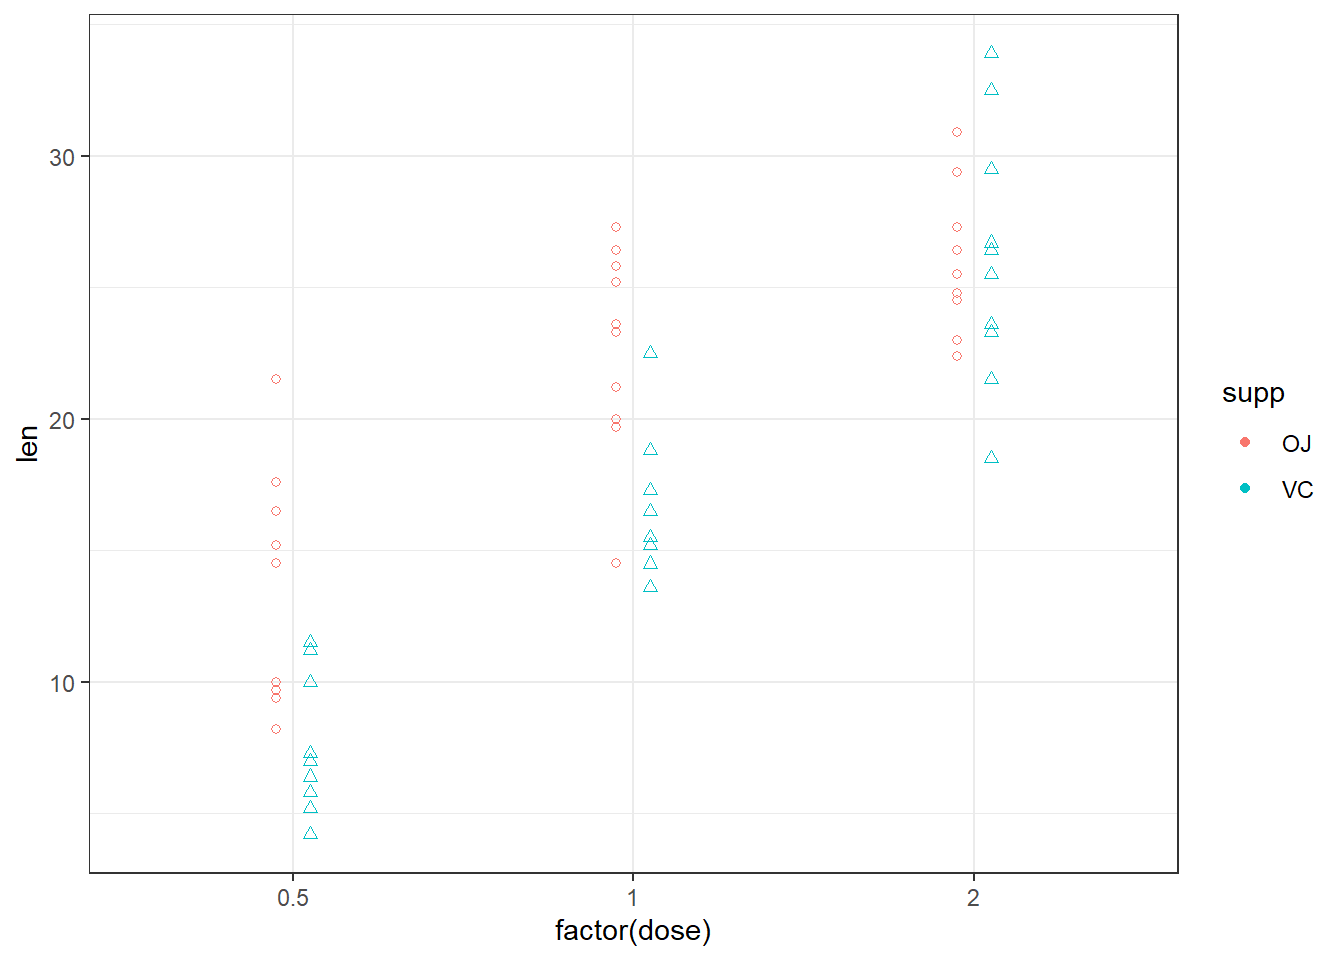
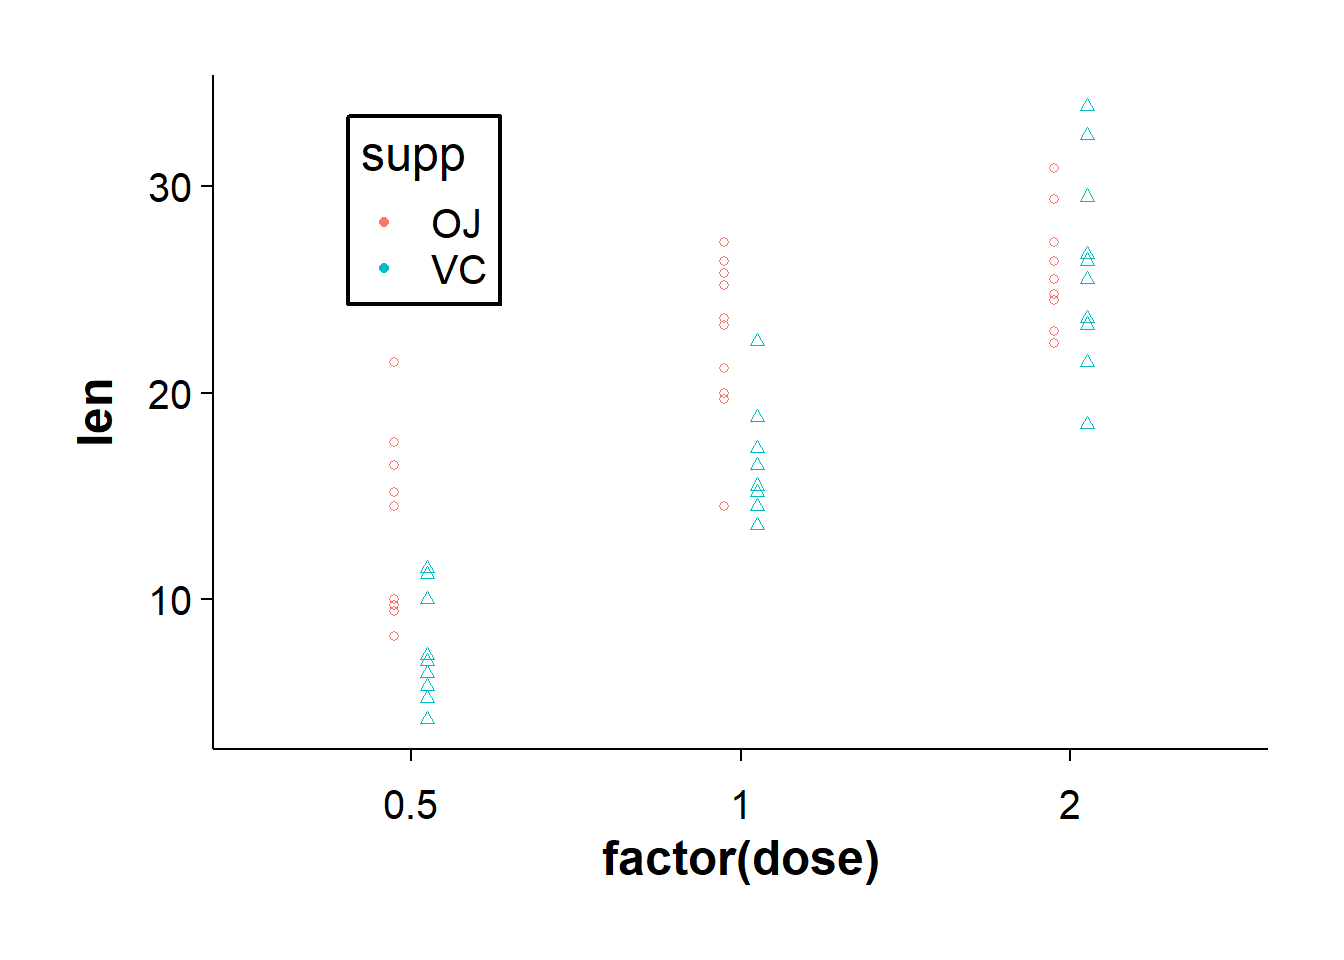
update verion2 apatheme

diff --git a/content/post/2022-10-05-apa-theme/index.html b/content/post/2022-10-05-apa-theme/index.html
@@ -50,8 +50,7 @@ Many researchers in the social sciences often need to create APA-style figures. 
 <h3>APA theme</h3>
 <pre class="r"><code>pic &lt;- ggplot(ToothGrowth) +
  aes(x = factor(dose), y = len, fill = supp, colour = supp) +
- geom_point(shape=ToothGrowth$supp,size = 1.5,position = position_dodge(0.2)) +
- theme_bw()
+ geom_point(shape=ToothGrowth$supp,size = 1.5,position = position_dodge(0.2)) 
 pic</code></pre>
 <p><img src="{{< blogdown/postref >}}index_files/figure-html/unnamed-chunk-2-1.png" width="672" /></p>
 <pre class="r"><code>pic_apa &lt;- pic+theme_set(theme_minimal(base_size = 18) +
@@ -71,7 +70,8 @@ pic_apa</code></pre>
     axis.line.x = element_line(color = &quot;gray8&quot;),
     axis.line.y = element_line(color = &quot;gray8&quot;),
     panel.background = element_rect(fill = &quot;white&quot;,color = &quot;white&quot;),
-    plot.background = element_rect(fill = &quot;white&quot;,color = &quot;white&quot;),
+    panel.border = element_rect(fill = NA, size=1),
+    plot.background = element_rect(fill = &quot;white&quot;,color = &quot;gray45&quot;),
     legend.position = c(0.1, 0.8),
     legend.background = element_rect(fill = NA),
     legend.key = element_rect(fill = NA),
@@ -79,4 +79,30 @@ pic_apa</code></pre>
   )
 pic_own  </code></pre>
 <p><img src="{{< blogdown/postref >}}index_files/figure-html/unnamed-chunk-3-1.png" width="672" /></p>
+</div>
+<div id="apa-theme-version-2-ref-httpsbookdown.orgcontent2015figures.html" class="section level1">
+<h1>APA theme version 2 ref: <a href="https://bookdown.org/content/2015/figures.html" class="uri">https://bookdown.org/content/2015/figures.html</a></h1>
+<pre class="r"><code>apatheme=theme_bw()+
+  theme(panel.grid.major=element_blank(),
+        panel.grid.minor=element_blank(),
+        panel.border=element_blank(),
+        axis.line=element_line(),
+        text=element_text(family=&#39;Arial&#39;),
+        legend.title=element_blank(),
+        axis.text.y=element_text(size = 12),
+        axis.text.x=element_text(size = 12),
+        plot.tag = element_text(face = &quot;bold&quot;))
+
+# test apatheme version 2
+pic + labs(tag=&quot;A&quot;)+theme_bw()+
+  theme(panel.grid.major=element_blank(),
+        panel.grid.minor=element_blank(),
+        panel.border=element_blank(),
+        axis.line=element_line(),
+        text=element_text(family=&#39;Arial&#39;),
+        legend.title=element_blank(),
+        axis.text.y=element_text(size = 12),
+        axis.text.x=element_text(size = 12),
+        plot.tag = element_text(face = &quot;bold&quot;))</code></pre>
+<p><img src="{{< blogdown/postref >}}index_files/figure-html/unnamed-chunk-4-1.png" width="672" /></p>
 </div>
